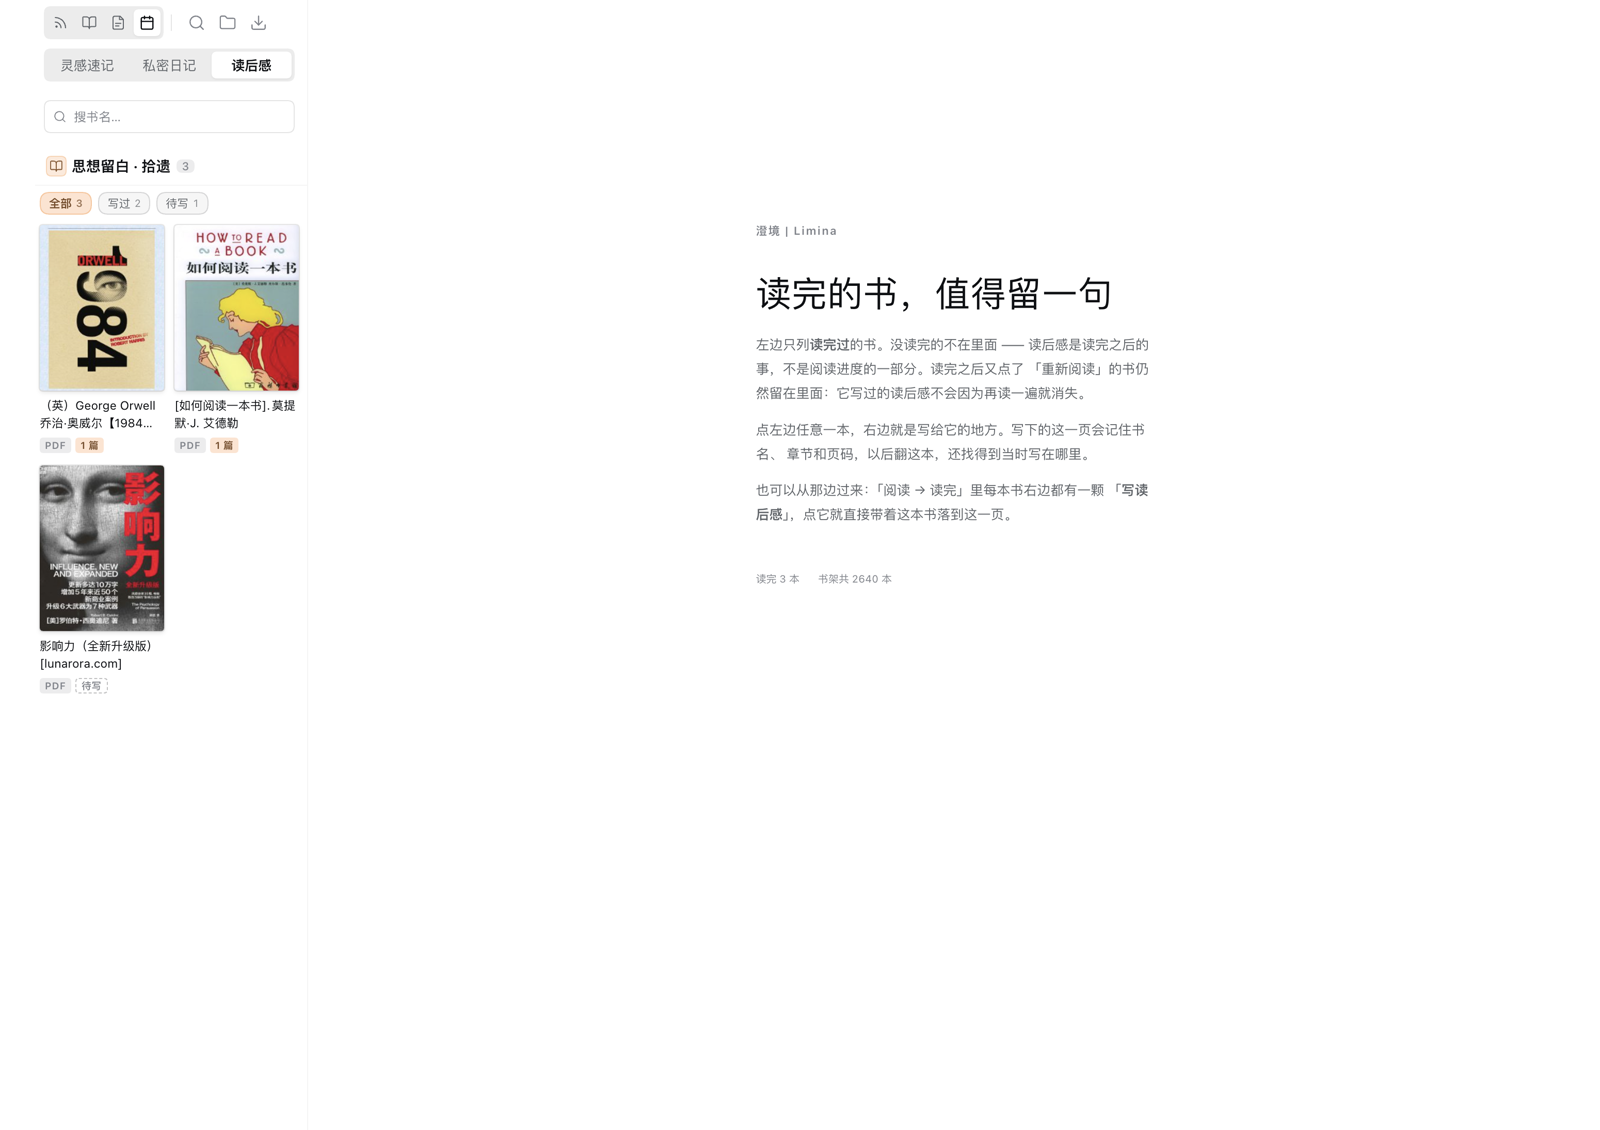
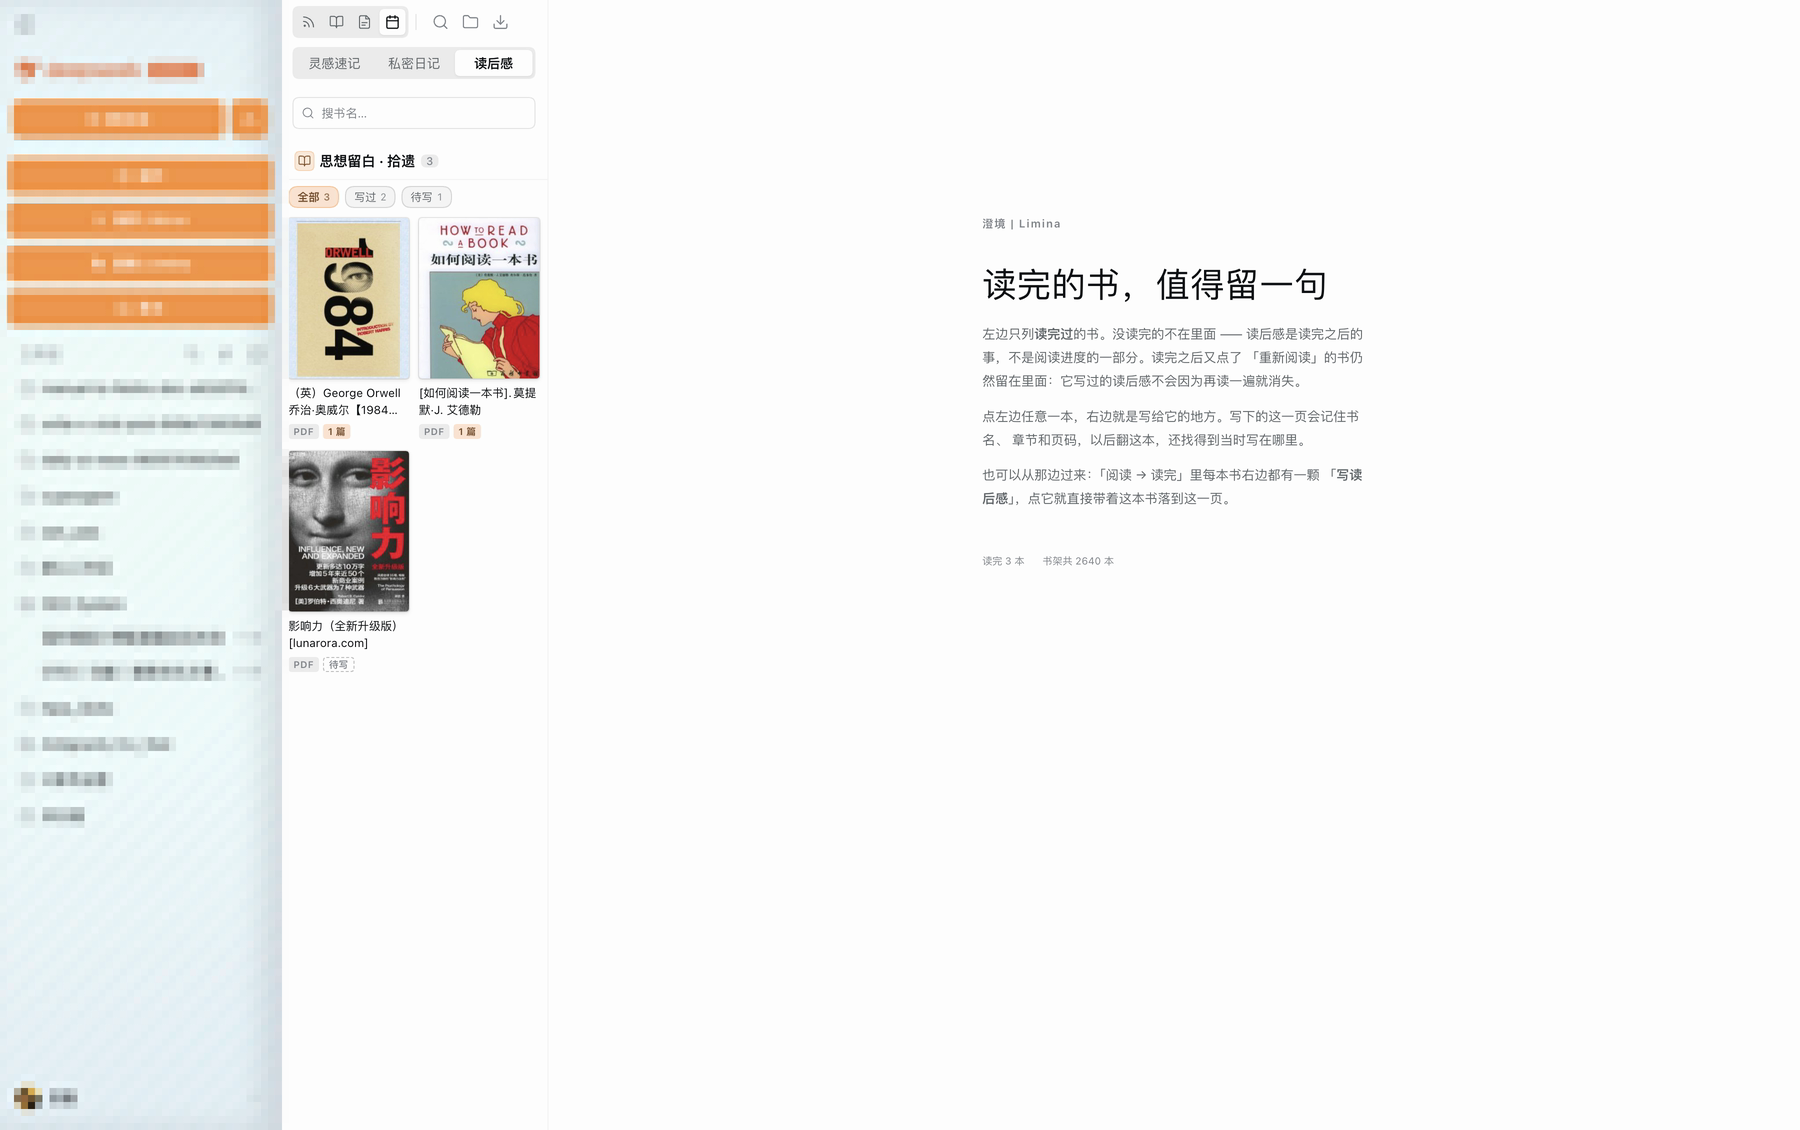
docs: 截图改用完整原图，敏感处打码
- 不再裁剪：保留面板全宽与原图 16:10 比例，读者能看到完整布局
- 打码范围三处：宿主侧栏（会话名、工作区、账号头像）、AI 输入框右侧的模型名、
  论文图右侧的 AI 伴读对话面板
- 马赛克块约 14px，文字彻底不可读，但不破坏图片观感
- 论文图 alt 去掉「右侧可翻译找词」——该区域已遮挡，读者看不到

原图 3600x2260 缩到 1800 宽，六张共 3.1 MB

diff --git a/README.md b/README.md
@@ -163,7 +163,7 @@ npm run build   # 生成 lib/index.js 与 lib/client.js
 
 论文和书的差别是**结构可预期**：先看标题、作者、venue、摘要，再决定读不读。
 
-![论文阅读页：左侧是论文库，中间按原版式渲染 PDF，右侧边栏可整页翻译、找词、调版心](docs/images/paper-reading.png)
+![论文阅读页：左侧是论文库，中间按原版式渲染 PDF，右侧是 AI 伴读](docs/images/paper-reading.png)
 
 - **三种导入方式**：arXiv 编号 / DOI / 标题，或直接上传本地 PDF。开放获取的会
   自动补下全文（元数据来自 **arXiv → Crossref → OpenAlex**），付费墙内的给你
